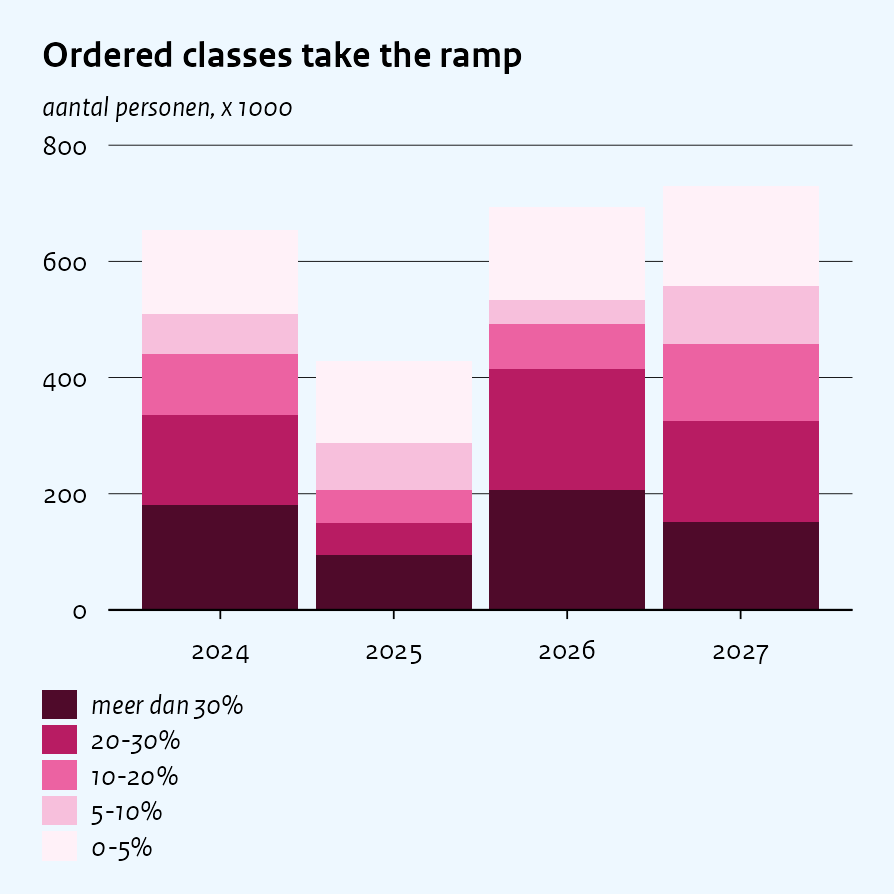
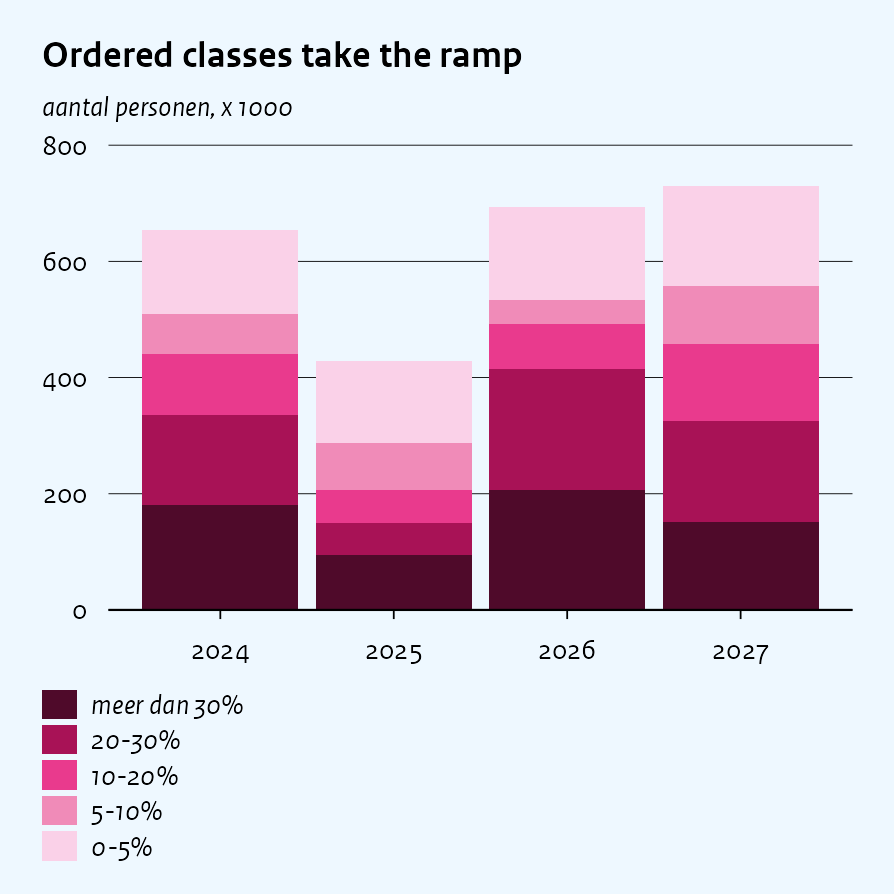
docs: re-render vignettes

Changed region(s): [[0.151, 0.1812, 0.9362, 0.604], [0.0302, 0.8456, 0.0906, 0.9664]]

diff --git a/doc/colours.md b/doc/colours.md
@@ -127,7 +127,8 @@ publication needs that publication’s colours, not the current default.
 For ordered classes – income bands, intensity classes – the discrete
 palette is the wrong tool: its colours are meant to be *distinct*, not
 ranked. Pass `"continuous"` to switch to the sequential ramp, which runs
-light to dark:
+light to dark. Fewer than six classes take the darkest shades, so the
+palest pink only appears when all six are needed:
 
 ``` r
 klassen <- c("0-5%", "5-10%", "10-20%", "20-30%", "meer dan 30%")
